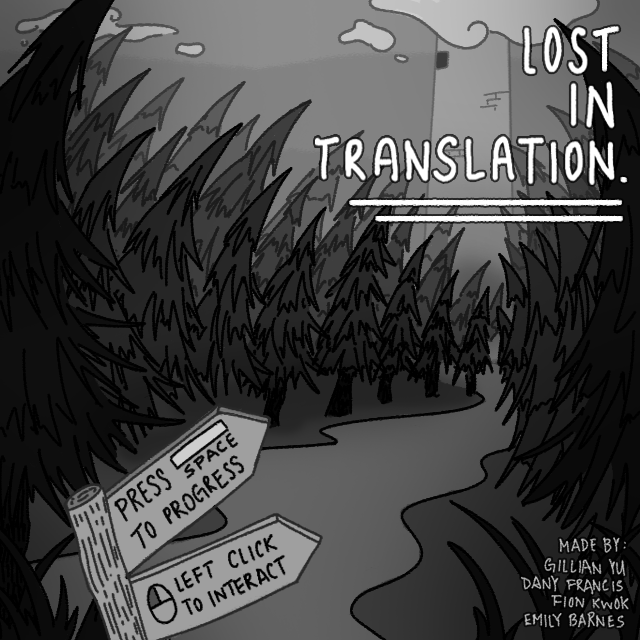
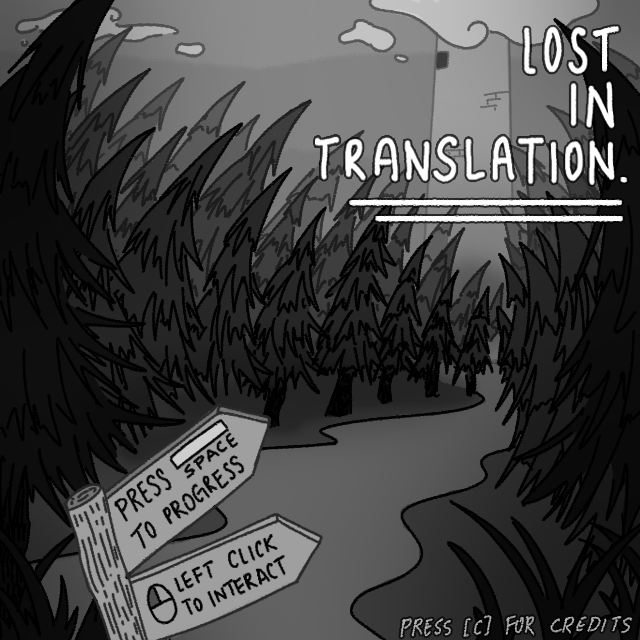
Added credit scene.

Changed region(s): [[0.625, 0.8438, 1.0, 1.0]]

diff --git a/src/scenes/Menu.js b/src/scenes/Menu.js
@@ -6,14 +6,41 @@ class Menu extends Phaser.Scene {
     create() {
 
         keySpace = this.input.keyboard.addKey(Phaser.Input.Keyboard.KeyCodes.SPACE);
-        keyW = this.input.keyboard.addKey(Phaser.Input.Keyboard.KeyCodes.W);
-        keyE = this.input.keyboard.addKey(Phaser.Input.Keyboard.KeyCodes.E);
-        keyR = this.input.keyboard.addKey(Phaser.Input.Keyboard.KeyCodes.R);
-        keyT = this.input.keyboard.addKey(Phaser.Input.Keyboard.KeyCodes.T);
-        keyY = this.input.keyboard.addKey(Phaser.Input.Keyboard.KeyCodes.Y);
-        keyU = this.input.keyboard.addKey(Phaser.Input.Keyboard.KeyCodes.U);
+        keyC = this.input.keyboard.addKey(Phaser.Input.Keyboard.KeyCodes.C);
 
         this.add.image(0, 0, 'menu').setOrigin(0, 0);
+
+        this.fade = this.add.sprite(0, 0, 'fade').setOrigin(0,0);
+        this.fade.depth = 3;
+
+        this.tweens.add({
+            targets: this.fade,
+            alpha: 0,
+            duration: 1000,
+            onStart: function() {
+                keySpace.enabled = false;
+            },
+            onComplete: function() {
+                keySpace.enabled = true;
+            }
+        });  
+
+        this.fadeAway = this.tweens.add({
+            targets: this.fade,
+            alpha: 1,
+            duration: 1000,
+            onStart: function() {
+                keySpace.enabled = false;
+            },
+            onComplete: function() {
+                this.scene.start('creditScene');
+                keySpace.enabled = true;
+            },
+            onCompleteScope: this
+        });  
+        this.fadeAway.pause();
+
+        this.fadeTransition = false;
         /*
         this.add.text(30, game.config.height/2, 'Press [Space] to start game.', menuConfig);
         this.instructionText = this.add.text(30, game.config.height/1.5, 'Press [Space] to progress,\nPress [Left click] to choose.', menuConfig);
@@ -62,6 +89,9 @@ class Menu extends Phaser.Scene {
             this.goCrossroad();
         }
 
+        if(Phaser.Input.Keyboard.JustDown(keyC)) {
+            this.goCredits();
+        }
     }
 
     goCrossroad() {
@@ -71,6 +101,14 @@ class Menu extends Phaser.Scene {
             this.endTransition_left.play();
             this.endTransition_right.play();
             this.grottoTransition = true;
+        }
+    }
+
+    goCredits() {
+        if(!this.fadeTransition) {
+            this.fadeAway.play();
+
+            this.fadeTransition = true;
         }
     }
 }

diff --git a/src/scenes/Credit.js b/src/scenes/Credit.js
@@ -1,0 +1,59 @@
+class Credit extends Phaser.Scene {
+    constructor() {
+        super("creditScene");
+    }
+
+    create() {
+
+        keySpace = this.input.keyboard.addKey(Phaser.Input.Keyboard.KeyCodes.SPACE);
+
+        this.add.image(0, 0, 'credit').setOrigin(0, 0);
+
+        this.fade = this.add.sprite(0, 0, 'fade').setOrigin(0, 0);
+        this.fade.depth = 3;
+
+        this.tweens.add({
+            targets: this.fade,
+            alpha: 0,
+            duration: 1000,
+            onStart: function() {
+                keySpace.enabled = false;
+            },
+            onComplete: function() {
+                keySpace.enabled = true;
+            }
+        });  
+
+        this.fadeAway = this.tweens.add({
+            targets: this.fade,
+            alpha: 1,
+            duration: 1000,
+            onStart: function() {
+                keySpace.enabled = false;
+            },
+            onComplete: function() {
+                this.scene.start('menuScene');
+                keySpace.enabled = true;
+            },
+            onCompleteScope: this
+        });  
+        this.fadeAway.pause();
+
+        this.fadeTransition = false;
+    }
+
+    update() {
+
+        if(Phaser.Input.Keyboard.JustDown(keySpace)) {
+            this.goMenu();
+        }
+
+    }
+
+    goMenu() {
+        if(!this.fadeTransition) {
+            this.fadeAway.play();
+            this.fadeTransition = true;
+        }
+    }
+}

diff --git a/src/main.js b/src/main.js
@@ -1,10 +1,10 @@
 /**
  * Lost in Translation
  * A game by:
- * Dany
- * Emily
- * Fion
- * Gillian
+ * Dany - Writer/Sound Designer
+ * Emily - BackgroundArtist
+ * Fion - Programmer/Background and UI Artist
+ * Gillian - Background and Props Artist
  * 
  * Game Title: Lost in Translation
  * Date Completed:
@@ -15,7 +15,7 @@
     width: 640,
     height: 640,
     autoCenter: true,
-    scene: [Preload, Menu, Crossroad, Grotto, BackToGrotto, BeforeBridge, Bridge, Tower]
+    scene: [Preload, Menu, Credit, Crossroad, Grotto, BackToGrotto, BeforeBridge, Bridge, Tower]
 }
 
 let game = new Phaser.Game(config);
@@ -37,13 +37,8 @@ let menuConfig = {
 
 //define keyboard keys
 let keyQ;
-let keyW;
-let keyE;
-let keyR;
-let keyT;
-let keyY;
-let keyU;
 let keySpace;
+let keyC;
 
 //define script variables for getNextLine()
 let scriptText;

diff --git a/index.html b/index.html
@@ -8,6 +8,7 @@
     <script src="./lib/phaser.js"></script>
     <script src="./src/Preload.js"></script>
     <script src="./src/scenes/Menu.js"></script>
+    <script src="./src/scenes/Credit.js"></script>
     <script src="./src/scenes/Crossroad.js"></script> 
     <script src="./src/scenes/Grotto.js"></script> 
     <script src="./src/scenes/BackToGrotto.js"></script>

diff --git a/src/Preload.js b/src/Preload.js
@@ -8,6 +8,9 @@ class Preload extends Phaser.Scene{
         //menu
         this.load.image('menu', './assets/menu.png');
 
+        //credit
+        this.load.image('credit', './assets/credits.png');
+
         //fade image
         this.load.image('fade', './assets/fade.png');
 
